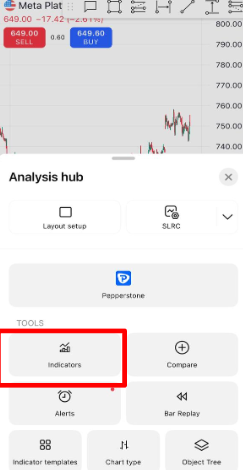
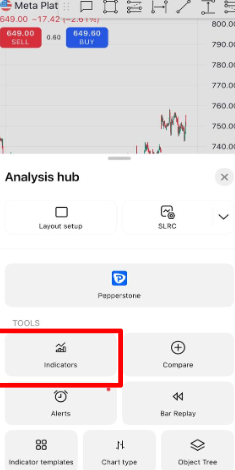
Update place-a-trade guide and step-5 phone screenshots

diff --git a/web/src/styles/docs.css b/web/src/styles/docs.css
@@ -178,8 +178,10 @@
 }
 .gchecks-title { color: #fff; font-weight: 700; margin-bottom: 0.6rem; }
 .gchecks ul { list-style: none; margin: 0; padding: 0; display: flex; flex-direction: column; gap: 0.45rem; }
-.gchecks li { display: flex; gap: 0.6rem; align-items: flex-start; margin: 0; }
-.gchecks li::before { content: '✓'; color: var(--cyan); font-weight: 800; flex-shrink: 0; }
+/* hanging ✓ marker via absolute positioning — NOT flex+gap, which would insert
+   a gap on both sides of any inline link in the text and space it out oddly. */
+.gchecks li { position: relative; padding-left: 1.5rem; margin: 0; }
+.gchecks li::before { content: '✓'; position: absolute; left: 0; top: 0; color: var(--cyan); font-weight: 800; }
 .gchecks .btn { margin-top: 1rem; }
 /* two adjacent cards side by side on desktop */
 .gchecks-row { display: grid; grid-template-columns: 1fr 1fr; gap: 1rem; align-items: start; }
